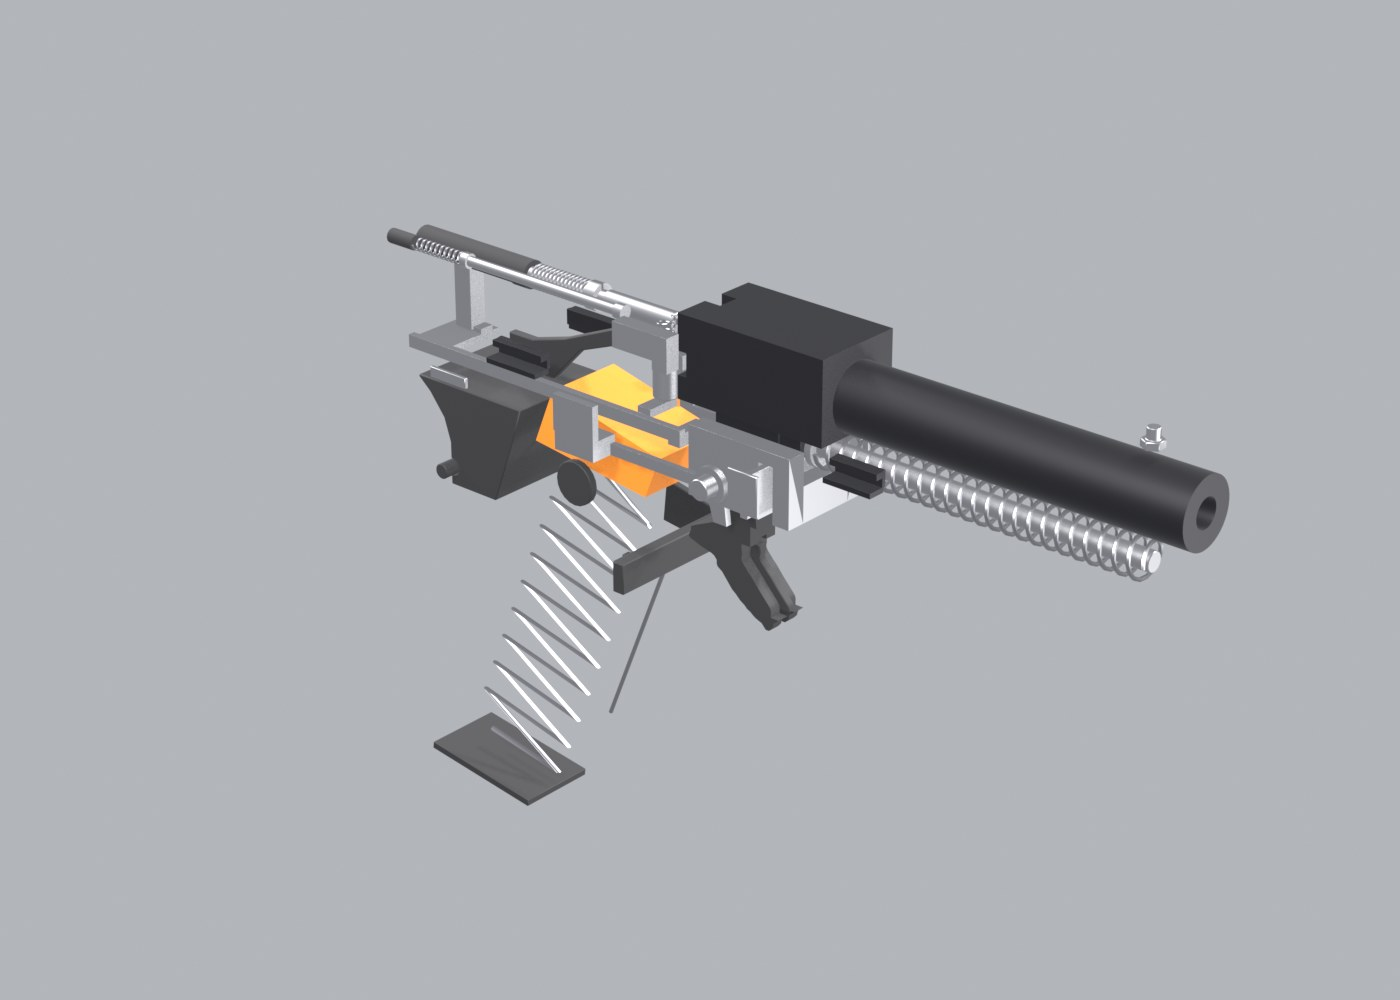
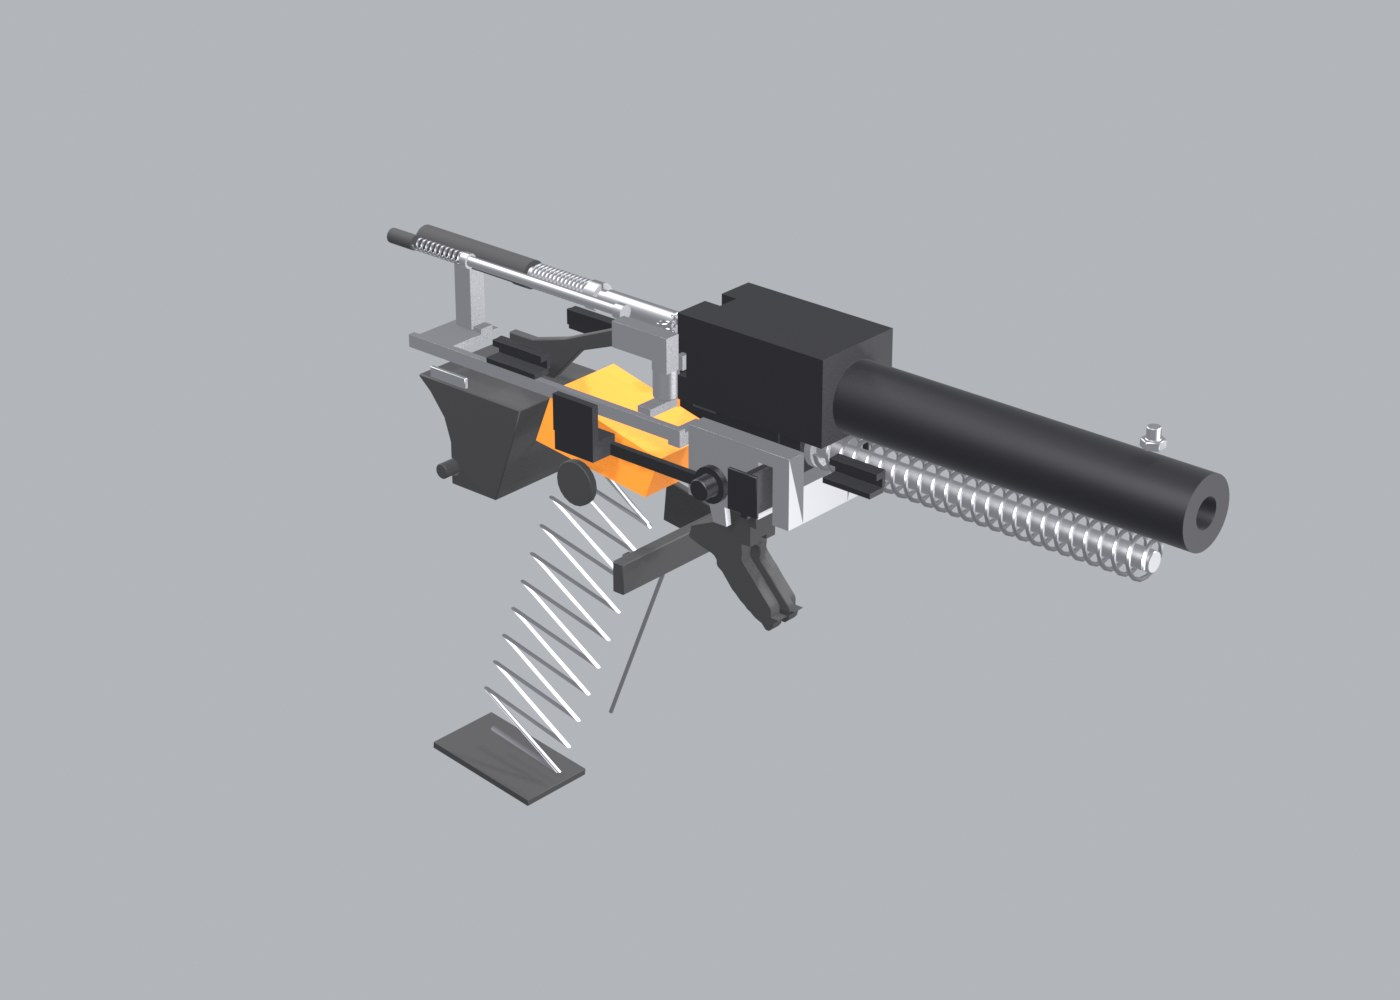
G44 V: dark finish on the slide lock, slide stop lever and trigger pin
As in the reference photograph; renders and inventory regenerated.

Changed region(s): [[0.3686, 0.372, 0.5529, 0.527], [0.4914, 0.403, 0.5221, 0.434]]

diff --git a/assets/g44v/model/build.py b/assets/g44v/model/build.py
@@ -353,7 +353,7 @@ def build_frame():
                 union(box(l0, l1, -12.6, -9.0, FT - 1.0, FT), box(l0, l1, -9.35, -8.55, FT - 0.01, -6.6), box(l0, l1, -10.9, -9.34, -7.9, -6.7))
             part(f'p17_frame_guide_{tag}_{nm}', g, 'SteelDark', 'p17_frame', no='17', bevel=0.08, seg=1, src='manual p. 6 (steel guides in the polymer frame); position inferred', status='inferred')
     # 28 trigger pin, 29 trigger housing pin (short)
-    part('p28_trigger_pin', cylS(tpl, tpz, -FW + 0.2, FW - 0.2, 2.0, n=20), 'Steel', 'p17_frame', no='28', bevel=0.15, seg=1, src='dimension image px (682, 350)', status='measured')
+    part('p28_trigger_pin', cylS(tpl, tpz, -FW + 0.2, FW - 0.2, 2.0, n=20), 'SteelDark', 'p17_frame', no='28', bevel=0.15, seg=1, src='dimension image px (682, 350)', status='measured')
     part('p29_trigger_housing_pin', cylS(hpl, hpz, -FW + 0.3, FW - 0.3, 1.5, n=16), 'Polymer', 'p17_frame', no='29', bevel=0.15, seg=1, src='dimension image px (1047, 440); manual p. 38', status='measured')
     # 22 locking block
     ck = [(76.0, -10.2), (98.6, -10.2), (98.6, -23.5), (95.0, -23.5), (95.0, -12.7), (91.8, -12.7), (91.8, -23.5), (76.0, -23.5)]
@@ -363,7 +363,7 @@ def build_frame():
     # 21 slide lock (pulled down to strip), 20 its spring
     sl = union(box(92.3, 93.9, -FW - 0.7, FW + 0.7, -21.0, -13.0),
               *[box(LX(640), LX(602), s0, s1, ZY(355), ZY(310)) for s0, s1 in ((FW + 0.02, FW + 0.7), (-FW - 0.7, -FW - 0.02))])
-    part('p21_slide_lock', sl, 'Steel', 'p17_frame', pivot=(93.1, 0, -17.0), no='21', bevel=0.15, seg=1, src='dimension image px 602-640, 310-355; manual p. 22 picture 23', status='measured')
+    part('p21_slide_lock', sl, 'SteelDark', 'p17_frame', pivot=(93.1, 0, -17.0), no='21', bevel=0.15, seg=1, src='dimension image px 602-640, 310-355; manual p. 22 picture 23', status='measured')
     part('p20_slide_lock_spring', helix((93.1, 0, -24.9), (0, 0, 1), 3.8, 1.0, 0.35, 3.5), 'Spring', 'p17_frame', pivot=(93.1, 0, -24.9), no='20', bevel=0,
          src='exploded drawing item 20', status='inferred', )
     # 23 trigger mechanism housing with ejector
@@ -405,7 +405,7 @@ def build_frame():
                  box(50.0, 59.2, w0, w1, -20.5, -15.0 if sgn > 0 else -16.8),                                       # through the window (lower on the right, under the trigger bar)
                  box(LX(870), LX(815), sgn * (FW + 0.05) if sgn > 0 else -FW - 1.5, FW + 1.5 if sgn > 0 else -FW - 0.05, ZY(325) if sgn > 0 else -16.9, FT - 0.3)]   # thumb pad (px 815-870, 290-325)
     arms += [box(51.0, 54.0, 11.0, 12.5, -15.1, FT - 0.3), box(56.0, 59.0, 10.4, 11.6, -18.4, -13.8), box(56.0, 59.0, 7.5, 10.41, -14.8, -13.8)]     # nose under the slide notch; nub over the follower
-    part('p27_slide_stop_lever', union(*arms), 'Steel', 'p17_frame', pivot=(tpl, 0, tpz), no='27', bevel=0.12, seg=1, cuts=[cylS(tpl, tpz, -17, 17, 2.15, n=20)],
+    part('p27_slide_stop_lever', union(*arms), 'SteelDark', 'p17_frame', pivot=(tpl, 0, tpz), no='27', bevel=0.12, seg=1, cuts=[cylS(tpl, tpz, -17, 17, 2.15, n=20)],
          src='dimension image px 815-870, 290-325 (pad); rear view shows a pad on each side; arms inferred', status='measured')
     # 19 magazine catch (reversible, button on the left), 18 its spring
     mc = union(box(61.8, 64.4, -FW + 0.3, FW + 0.1, -45.5, -39.5), box(59.6, 61.81, -9.4, -7.6, -44.8, -40.6),

diff --git a/assets/g44v/notes/DECOMPOSITION.md b/assets/g44v/notes/DECOMPOSITION.md
@@ -39,17 +39,17 @@ built from how the part must work (each one is a stated guess). Positions are mm
 | - | `placeholder_panel_grip_r` | measured | dimension image px 1030-1095, 660-715: maker's mark on the grip replaced by a plain panel | 16.4, -14.6, -77.7 | 10.8 to 22.0 | -82.5 to -73.0 | Placeholder |
 | 17 | `p17_frame_guide_rear_r` | inferred | manual p. 6 (steel guides in the polymer frame); position inferred | 36.0, -9.8, -8.5 | 30.0 to 42.0 | -10.6 to -6.6 | SteelDark |
 | 17 | `p17_frame_guide_front_r` | inferred | manual p. 6 (steel guides in the polymer frame); position inferred | 113.0, -9.8, -8.5 | 108.0 to 118.0 | -10.6 to -6.6 | SteelDark |
-| 28 | `p28_trigger_pin` | measured | dimension image px (682, 350) | 82.2, 0.0, -19.4 | 80.2 to 84.2 | -21.4 to -17.4 | Steel |
+| 28 | `p28_trigger_pin` | measured | dimension image px (682, 350) | 82.2, 0.0, -19.4 | 80.2 to 84.2 | -21.4 to -17.4 | SteelDark |
 | 29 | `p29_trigger_housing_pin` | measured | dimension image px (1047, 440); manual p. 38 | 19.1, 0.0, -34.9 | 17.6 to 20.6 | -36.4 to -33.4 | Polymer |
 | 22 | `p22_locking_block` | inferred | exploded drawing item 22; position from the trigger pin and slide lock in the dimension image | 92.1, 0.0, -17.8 | 76.0 to 98.6 | -23.5 to -10.2 | Steel |
-| 21 | `p21_slide_lock` | measured | dimension image px 602-640, 310-355; manual p. 22 picture 23 | 93.1, 0.0, -17.0 | 89.5 to 96.0 | -21.0 to -12.4 | Steel |
+| 21 | `p21_slide_lock` | measured | dimension image px 602-640, 310-355; manual p. 22 picture 23 | 93.1, 0.0, -17.0 | 89.5 to 96.0 | -21.0 to -12.4 | SteelDark |
 | 20 | `p20_slide_lock_spring` | inferred | exploded drawing item 20 | 93.1, 0.0, -24.9 | 92.0 to 94.2 | -24.7 to -21.3 | Spring |
 | 23 | `p23_trigger_mechanism_housing` | inferred | exploded drawing item 23; ejector named in manual p. 31 picture 35; shape inferred | 21.4, 0.0, -26.0 | 11.0 to 58.0 | -38.5 to -0.8 | Polymer |
 | 24 | `p24_connector` | inferred | exploded drawing item 24; manual p. 28 picture 32 (right rear corner of the frame); simplified to a strip | 18.5, -10.9, -17.2 | 14.0 to 23.0 | -18.3 to -16.2 | Steel |
 | 26 | `p26_trigger` | traced | traced: outlines.json trigger; hub to the pin inferred | 82.2, 0.0, -19.4 | 70.3 to 91.2 | -48.4 to -16.2 | Polymer |
 | 26 | `p26_trigger_safety` | inferred | manual p. 7 and p. 9 (trigger safety lever in the trigger); the traced outline is the blade, 2 mm proud of the trigger face | 81.6, 0.0, -34.0 | 80.6 to 91.5 | -45.0 to -34.0 | Polymer |
 | 26 | `p26_trigger_bar` | inferred | manual p. 7 (trigger bar: holds the firing pin, lifts the firing pin safety, drops on the ramp); exploded drawing item 26; routing inferred | 79.5, -5.0, -28.2 | 9.0 to 81.0 | -29.8 to -9.9 | Steel |
-| 27 | `p27_slide_stop_lever` | measured | dimension image px 815-870, 290-325 (pad); rear view shows a pad on each side; arms inferred | 82.2, 0.0, -19.4 | 49.7 to 85.6 | -22.8 to -9.9 | Steel |
+| 27 | `p27_slide_stop_lever` | measured | dimension image px 815-870, 290-325 (pad); rear view shows a pad on each side; arms inferred | 82.2, 0.0, -19.4 | 49.7 to 85.6 | -22.8 to -9.9 | SteelDark |
 | 19 | `p19_magazine_catch` | measured | dimension image px 800-880, 455-515 (pad); manual p. 40; bar and nib inferred | 62.0, 0.0, -42.5 | 48.0 to 64.4 | -47.9 to -37.5 | Polymer |
 | 18 | `p18_magazine_catch_spring` | inferred | manual p. 40 pictures 53-54: a straight wire in the front strap | 54.6, 0.0, -63.8 | 47.3 to 61.8 | -81.2 to -46.5 | Spring |
 | 17 | `p17_frame_grip_texture_l` | measured | dimension image: studded grip panel, patch outline px (880,500)...(850,540), maker's mark window left clear | 0.0, 0.0, 0.0 | -2.0 to 53.1 | -97.8 to -40.5 | Polymer |
